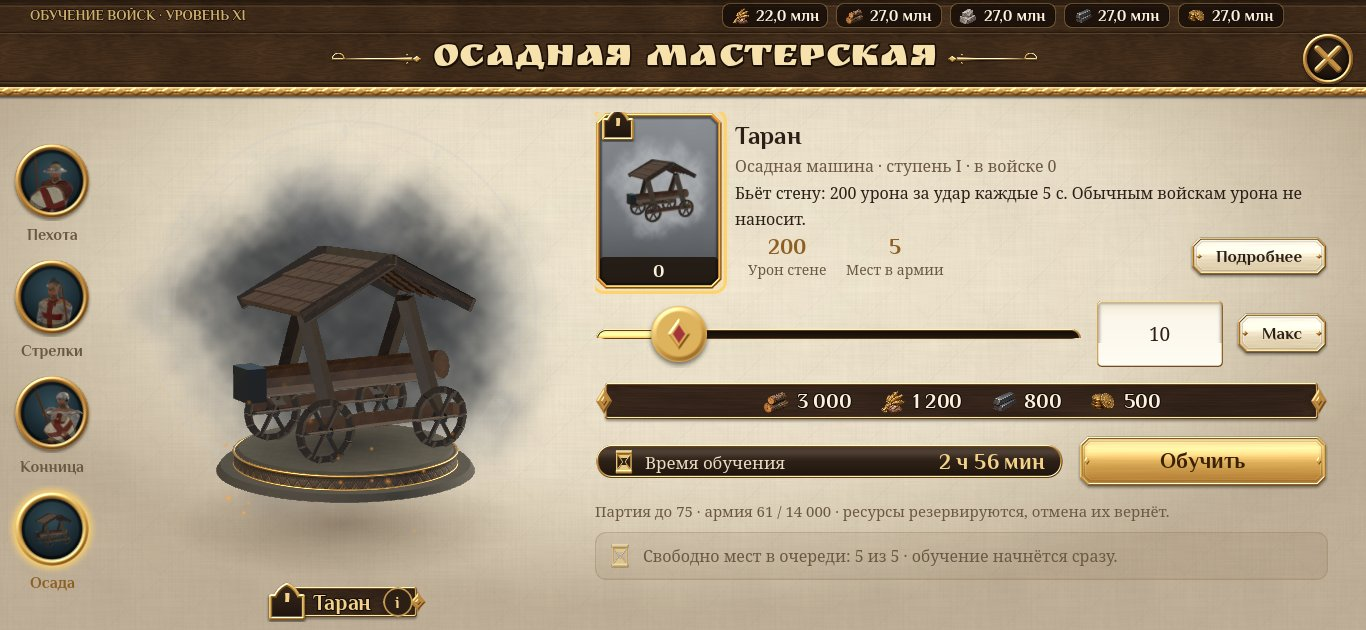
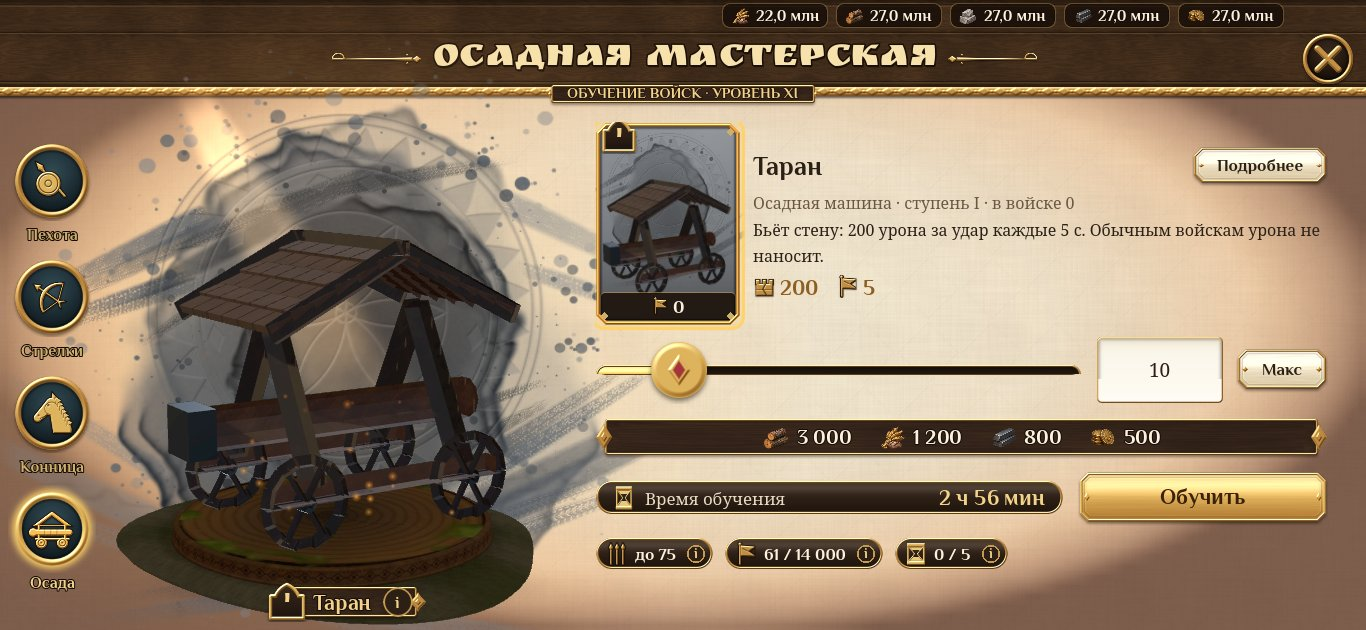
UI premium stage 2, pass 3: re-shot stills, measurements and notes
Claude-Session: https://claude.ai/code/session_01HwWPLNsZoT8MDs8G9gKuWc

diff --git a/ui_premium/STAGE2.md b/ui_premium/STAGE2.md
@@ -214,6 +214,69 @@ The side-by-side sheets with the reference stayed outside the repository.
   - The badge-shadow hairline is gone.
   - The model cache is dropped on close.
   - The city's 3D pass is skipped under full-screen windows.
+- **Pass 3** (review before stage 3; the `after_*` stills were re-shot after it):
+  - **Atmosphere.**
+    - The stage is now the dominant element. A large, saturated ink-and-watercolour splash
+      (`kit_ink`, 512², painted by `paint_kit.py`) is drawn in the tier colour: I iron-grey,
+      II green, III blue, IV purple, V amber.
+      - It is laid in four passes: a mirrored bleed, the splash twice, and a dark core.
+      - It has hard pooled edges, bristle strokes, splatter and granulation.
+    - A carved Slavic solar medallion sits inside it (`kit_solar`: notched double ring,
+      lozenges and a six-petal rosette).
+    - A warm beam and a bloom fall on the figure from the upper left (`kit_beam`, additive).
+    - A candle glow sits behind the stage.
+    - The recruitment window has its own firelit vignette, warm toward the edges and deep
+      red-brown at the rim, instead of the plain one.
+  - **Hero framing.**
+    - Every unit is framed on its posed silhouette, weapons included. The portrait bake
+      measures it over eight poses of the stage animation and stores it in
+      `assets/ui/units/framing.json`. The lance tip stays inside the stage, below the header.
+    - The figure fills the stage from 3.5 % to 82 % of its height. Cards use the same silhouette
+      cut at the helmet, so a lance does not shrink the knight on a card.
+    - The gold dais is gone. It is replaced by a plinth built in code (`make_plinth`):
+      - an oak log section with end grain, cracks, bark and moss on top (`kit_dais_top`) and a
+        band of Slavic notch carving round the side (`kit_dais`, repainted without gilding);
+      - a contact shade at its foot;
+      - an irregular mossy field stone under it with a dark ring where the oak stands, and a
+        soft shadow on the wash.
+    - The ram gets a wide, low plinth round its wheels and a narrower framing (70 % of the
+      stage width). It no longer stands on a high dais, and the name plate sits on the plinth's
+      front edge with no gap.
+  - **Rail.** The rail now shows painted bronze emblems instead of busts (`kit_emb_inf`
+    spear and shield, `kit_emb_bow`, `kit_emb_horse`, `kit_emb_ram`), with a gold ring on the
+    selected one and a label under each.
+  - **Less text.**
+    - The two hint lines became three icon chips:
+      - batch limit «до N»;
+      - army «used / capacity», orange when the batch does not fit;
+      - queue «orders / places», with the hourglass icon, orange when full.
+    - Each chip has an «i». Its tooltip (or a tap) shows the long explanation in one line under
+      the chips; quote failures use the same line in red.
+    - The tiny eyebrow «ОБУЧЕНИЕ ВОЙСК · УРОВЕНЬ N» moved into a small plate hanging under the
+      title.
+    - Unit figures are icons with numbers: attack, defence, health and power; wall damage and
+      army places for the ram. The caption is the tooltip.
+  - **Unit render.**
+    - Key light is warmer (#ffdcb0, 1.85) with soft shadows, fill is cool, and the rim is warm.
+      A cooler kicker light sits on the other side.
+    - Filmic tonemap at exposure 1.0.
+    - Rim and kicker add only a little specular and no sun in the reflection sky, so polished
+      metal no longer flares.
+    - Skin has less sheen. Cloth, leather and horse coats get a faint velvet rim.
+    - The plinth materials are matt, because a grazing sheen made the end grain look like vinyl.
+    - At rest the unit sways ±5° over 11 s, so the stage never freezes.
+    - All 12 portraits were rebaked with the same rig.
+  - **Tier cards.** Cards are larger (146×204) and drawn on the tier colour with the ink wash and
+    a faint solar disc. They have:
+    - a gilt ornament frame with corner lozenges;
+    - a bronze-edged owned-count plate with the banner icon;
+    - a larger numeral badge;
+    - a darker veil over locked tiers.
+  - **First open.** After the launch screen is gone, `main.warm_windows()` shapes the window fonts'
+    glyphs at the sizes and outlines the window uses. It does a few sizes per frame, about 40
+    frames in all, from an off-screen node (`UiKit.warm_text`). It also makes the stage's gradients,
+    framing and environment, and starts decoding the plinth stone (`UnitStage.warm_stage`). The
+    launch itself is unchanged.
 
 ## Measurements
 
@@ -230,12 +293,15 @@ software rasteriser) under xvfb, against the synthetic localhost fixture.
 | warm open, median of 5 | B11 4.9 ms, B12 8.5 ms (an earlier run: 5.3 and 7.7) | ≈1.6–1.8 ms |
 | first open of each building in a session | B11 6.6, B12 7.5, B13 5.1, B17 6.0 ms (a second run: 7.8, 5.8, 5.9, 8.6) | B11 7.3, B12 2.8, B13 1.8, B17 2.0 ms |
 | first open at 2532×1170 | 10.5 ms | — |
-| first open ever, headless (`qa_recruitment`, cold glyphs and textures) | 14.8–16 ms | — |
+| first open ever, headless (`qa_recruitment`, cold glyphs and textures; before pass 3) | 14.8–16 ms | — |
+| first open ever after pass 3, headless (`qa_recruitment`, after the post-launch warm-up) | 6.5 / 8.2 ms (11.3 ms if opened before the warm-up ends) | — |
+| first open ever after pass 3, lavapipe (`qa_recruit_shots`, B11) | 8.6 / 9.8 ms (14.8 ms before the warm-up was wired) | — |
+| later opens after pass 3, lavapipe | B11 4.0, B12 4.9, B13 4.6–6.3, B17 4.7–7.8 ms | — |
 | 3D world build, one frame later (`frame_post_draw`) | 1.9–2.5 ms | — |
 
 The window builds about five times as many controls as the old one. It costs about three times as
-much on the main thread, and still fits one 60 Hz frame (16.7 ms). The first open of a session is
-the closest to that limit. The model loads on a worker thread and does not add to these numbers.
+much on the main thread, and still fits one 60 Hz frame (16.7 ms). After pass 3 the first open of a
+session is within the range of the later ones, instead of about twice as slow. The model loads on a worker thread and does not add to these numbers.
 
 **Per frame while open** (median of 90 frames after 20 frames of warm-up; draw calls are the
 whole frame, all viewports):
@@ -253,9 +319,14 @@ The live stage renders at device resolution with 4× MSAA. With the city skipped
 window, the open recruitment window costs about a sixth of the city frame on this renderer.
 
 **Assets**:
-- 12 unit portraits: 117 KiB (WebP q90; full figures 288×352, busts 128×128).
+- 12 unit portraits: 146 KiB after pass 3 (WebP q90; full figures 288×352, busts 128×128),
+  plus `framing.json`.
+- Pass-3 kit textures: 234 KiB in all.
+  - `kit_ink` 66 KB, `kit_solar` 49 KB, `kit_beam` 6 KB, `kit_dais_top` 10 KB (all lossy).
+  - Four rail emblems, 8–9 KB each.
+  - Seven stat icons, 1–2.5 KB each.
 - `kit_header_tall.res`: 43 KB.
-- `kit_dais.res`: 58 KB.
+- `kit_dais.res`: 50 KB (repainted in pass 3).
 - `kit_dais_n.res`: 6 KB.
 - `kit_badge.res`: 2.6 KB (rebaked).
 - Stills in `ui_premium/shots/stage2/` (JPEG q85): about 150 KB each at 1366×630, 350 KB at 2532×1170.
@@ -292,6 +363,17 @@ window, the open recruitment window costs about a sixth of the city frame on thi
   longer open the works → confirm → queues chain. Each of B11, B12, B13 and B17 now uses 4 checks
   (available, accepted, shown in the window, cancelled) instead of 5. The removed check was for the
   confirm window, which these buildings no longer have. The hospital and academy keep the old path.
+- **Pass 3.** `qa_recruitment` waits for the post-launch warm-up to finish (`launch_done`
+  and no `KitWarm` node) before its first open. A player cannot tap a building within the
+  first second after the launch screen. The pass-3 re-run passed with the same counts:
+  - `qa_recruitment` 56;
+  - `qa_building_actions` 297 states / 4469 checks;
+  - `qa_building_services` 42;
+  - `qa_button_responsiveness` 50;
+  - `qa_panel_latency` 26;
+  - `qa_troops06` 122;
+  - `qa_v6_panel_feedback` 12;
+  - `qa_instant_start` 12 (launch 1.4–1.7 s headless).
 - **Test environment.**
   - `qa_net_1022` runs its fixture without `DRENOVAR_QA_ADVENTURE`; with adventures on, its town
     checks fail.
@@ -302,24 +384,25 @@ window, the open recruitment window costs about a sixth of the city frame on thi
 
 ## Still below the reference
 
+After pass 3:
 - **The model, not the frame.** The reference's hero units are high-detail sculpted models in
-  dynamic poses, with rich materials and a rock plinth that merges into the ink wash. Ours are the
-  game's own preview models (lower poly, simpler textures) in a calm idle on a carved dais.
-  - The composition matches, but the figure is the weakest part of the window. Better unit art is
-    an art-production task, not UI work.
-  - The knight's lance runs under the header band; the reference keeps weapons inside the wash.
-- **Few tiers per building.** The reference shows five to seven tier cards per building. The V6
-  catalogue has one or two units per training building, so the card row looks sparse and the
-  summary takes the room.
-- **More words than icons.** The hint line, the free-queue row and the locked-unit requirements are
-  text. The reference says the same with icons and one short line.
-- **No atmosphere layer.** There is no animated border glow or vignette around the stage (the
-  reference has a fire-lit frame). Embers and the halo are the only motion besides the unit.
-- **The ram stands high.** Its dais sits higher than the troops' (the framing fits its length), so
-  there is a gap between the dais and the name plate.
+  dynamic poses with rich materials. Ours are the game's own preview models (lower poly, simpler
+  textures) in a calm idle.
+  - Lighting, rim and materials now get the most out of them. The figure is still the weakest
+    part of the window, and better unit art is an art-production task.
+  - The spearman's kettle-hat brim still reads as a bright ring. That is its pale metal under the
+    key light, from the model's texture.
+- **Few tiers per building.** The V6 catalogue has one or two units per training building. The
+  reference shows five to seven cards. Larger, richer cards and the summary beside them fill the
+  row, but it is not the reference's full strip.
+- **Atmosphere is static.** The splash, medallion, light beam and vignette are painted. Only the
+  embers, the sway and the idle animation move. There is no animated fire or glow at the window
+  edges.
+- **The ram is box-like.** It is built from simple CI geometry, so even well framed on its plinth
+  it looks blockier than the troops.
+  - Its first live frame on lavapipe takes about 0.5 s while its material compiles. This is a
+    software-renderer cost of the one-time shader build, not measured on a phone.
+  - The stills used a locally built ram scene in the git-ignored
+    `assets/city/architecture-v6/units/`, which was removed afterwards.
 - **Untested on a phone.** No real-device frame time was measured. The lavapipe GPU numbers only
   give relative costs.
-- **First open is close to a frame.** The first open of a session is close to one 60 Hz frame on
-  the main thread (cold glyphs). Pre-shaping the window's fonts during warm-up would remove that.
-- **The rail shows busts, not emblems.** This is deliberate (the unit you will train), but it is
-  less instantly readable than the reference's branch emblems at small sizes.
